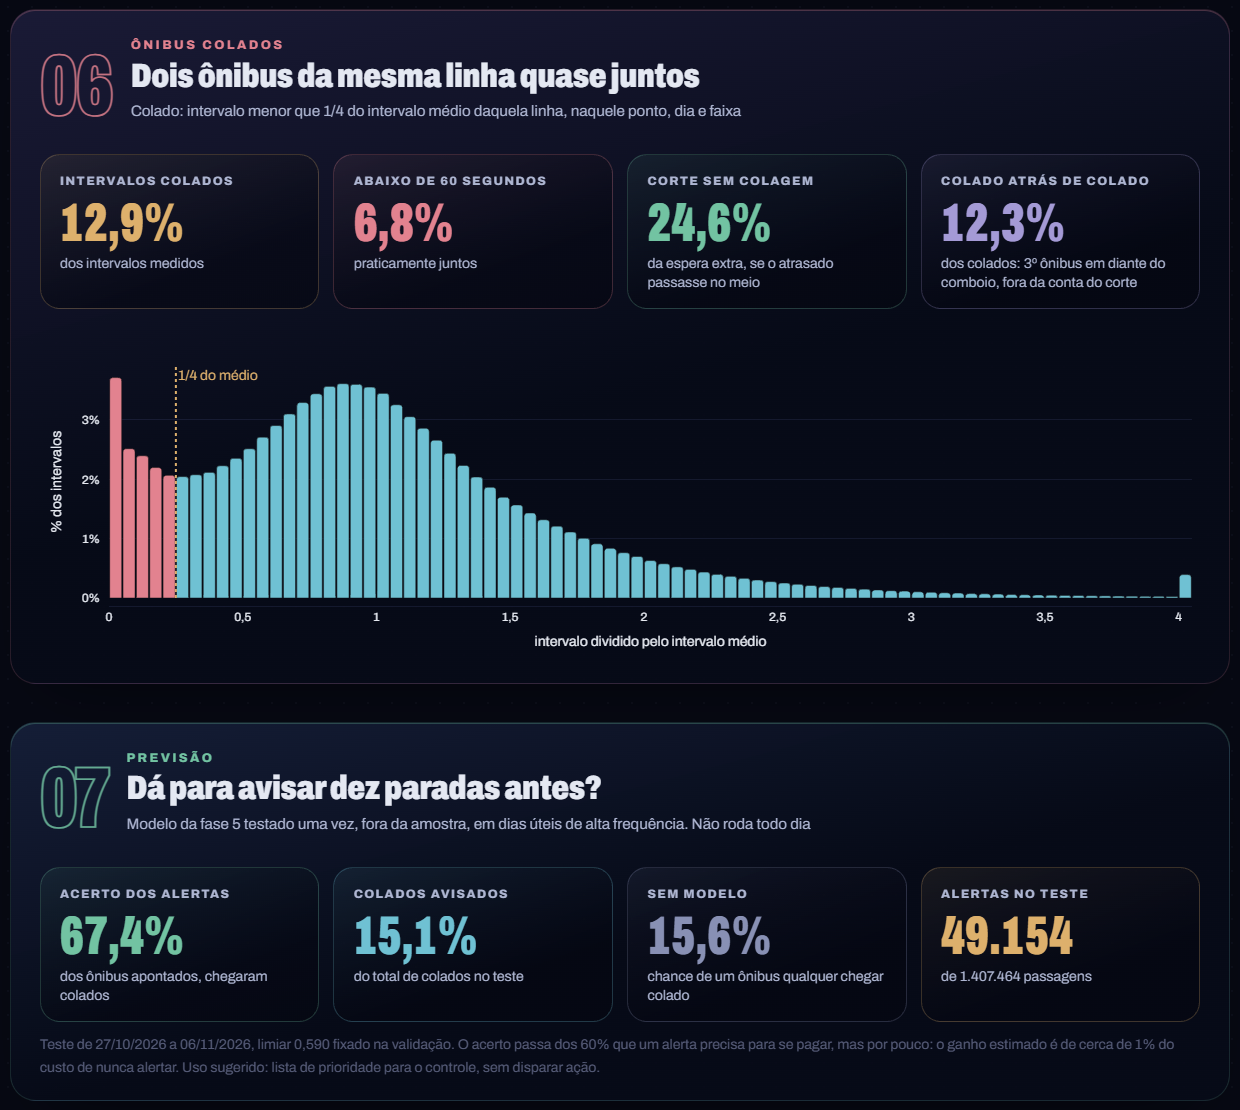
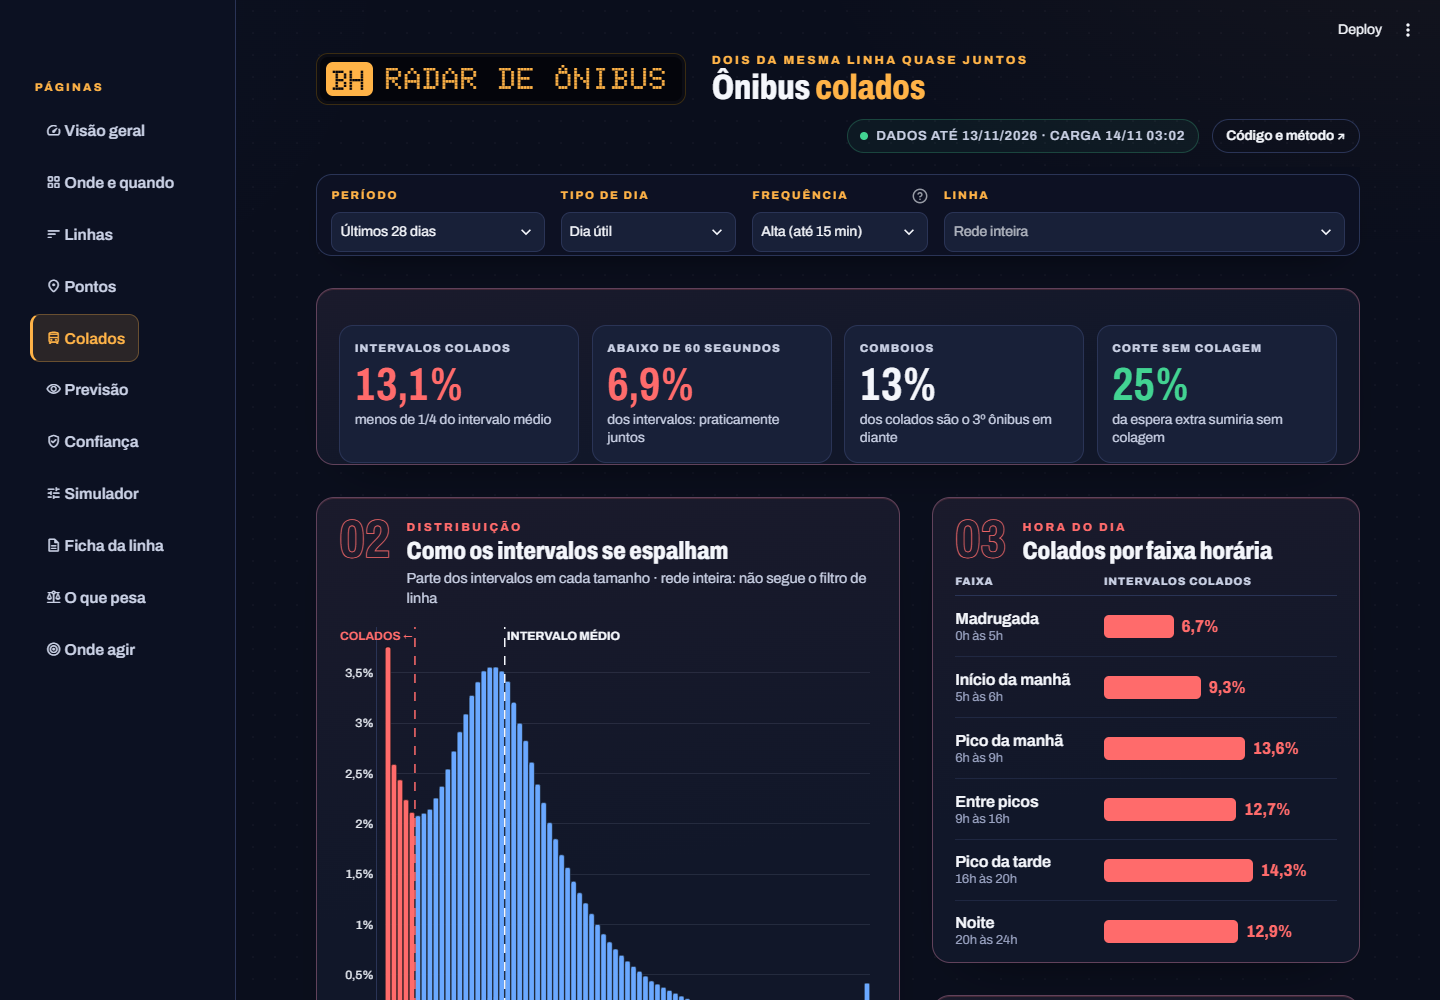
README: prints do painel novo e secao do Power BI
Troca os prints do painel antigo pelos das 11 paginas, adiciona a secao
Power BI (PBIP gerado por script, carrossel proprio, endereco do banco fora
do Git) com 4 prints, e atualiza a Estrutura (painel/, powerbi/, 137 testes).

diff --git a/README.md b/README.md
@@ -13,7 +13,9 @@ A pergunta que o projeto vai responder:
 **Painel público: [radar-onibus-bh.streamlit.app](https://radar-onibus-bh.streamlit.app/)**,
 atualizado todo dia com o dia de BH que fechou.
 
-![Topo do painel: em dia útil, a irregularidade soma 2,9 minutos à espera no ponto](docs/img/painel_topo.png)
+![Visão geral do painel: a espera no ponto, quanto dela é irregularidade e a espera extra dia a dia](docs/img/painel_visao.png)
+
+O mesmo conteúdo existe como relatório Power BI, gerado por script ([seção Power BI](#power-bi)).
 
 ## Status
 
@@ -584,7 +586,12 @@ docker compose exec airflow-scheduler airflow dags trigger radar_reprocessar   -
 ## Painel
 
 O painel lê um Postgres gratuito no [Neon](https://neon.tech) e roda no
-Streamlit Community Cloud, que publica a branch `painel`.
+Streamlit Community Cloud, que publica a branch `painel`. São 11 páginas num
+menu lateral, as mesmas do relatório Power BI e na mesma ordem: Visão geral,
+Onde e quando, Linhas, Pontos, Colados, Previsão, Confiança, Simulador, Ficha
+da linha, O que pesa e Onde agir. Os filtros de período, tipo de dia e
+frequência valem para todas e ficam na URL, então um recorte pode ser
+compartilhado por link.
 
 **Por que não ler a Gold direto.** As marts têm cerca de 2 GB, ficam em Delta
 na VM de processamento e o Neon grátis aceita 0,5 GB. A tarefa
@@ -612,16 +619,56 @@ compara com os CSVs de `analise/saida`: 23.950 números, nenhuma divergência.
 Secrets do Streamlit. Os filtros entram na consulta como parâmetro, nunca
 colados no SQL.
 
-![Espera por faixa horária e dia a dia, com os eventos marcados](docs/img/painel_tempo.png)
+O gráfico "Dia a dia" clareia e numera as barras dos dias com evento na cidade
+(eleições, temporal de 25/10, recesso escolar). Com as linhas suplementares
+incluídas, a dica do dia avisa quando o GPS delas falhou. O motivo de cada dia,
+com fonte, está na [seção 9 da análise](docs/analise.md).
 
-O gráfico "Dia a dia" marca com um losango os dias com evento na cidade
-(eleições, temporal de 25/10, recesso escolar) e com um círculo vazado os dias
-em que o GPS das linhas suplementares falhou. O motivo de cada um, com fonte,
-está na [seção 9 da análise](docs/analise.md).
+![O que pesa: a espera extra segue os colados, ponto cheio não espera mais, dia útil contra fim de semana](docs/img/painel_porque.png)
 
-![Linhas que mais somam espera extra](docs/img/painel_linhas.png)
+![Pontos: mapa da espera extra por ponto nos últimos 28 dias e os piores pontos](docs/img/painel_pontos.png)
 
-![Ônibus colados e o teste do modelo de previsão](docs/img/painel_colados.png)
+![Ônibus colados: distribuição dos intervalos, colados por faixa horária e as linhas onde mais se cola](docs/img/painel_colados.png)
+
+![Previsão: o teste único do modelo da Fase 5, alertas e acertos por dia e por linha](docs/img/painel_previsao.png)
+
+![Simulador: a espera extra hoje e com os ônibus colados espaçados, por faixa e por linha](docs/img/painel_simulador.png)
+
+## Power BI
+
+A pasta [`powerbi/`](powerbi/) tem o mesmo painel como relatório Power BI, no
+formato PBIP (o modelo em TMDL e as páginas em PBIR, arquivos de texto que o
+Git consegue comparar). Nada nele é feito à mão no Desktop:
+[`powerbi/gerar_pbip.py`](powerbi/gerar_pbip.py) escreve o projeto inteiro a
+partir de três arquivos.
+
+- [`modelo.py`](powerbi/modelo.py): tabelas importadas do mesmo esquema
+  `radar` do Neon e as medidas em DAX. As medidas repetem as fórmulas de
+  [`painel/consultas.py`](painel/consultas.py), então o relatório e o painel
+  web mostram o mesmo número para o mesmo filtro. Nenhum número é digitado.
+- [`relatorio.py`](powerbi/relatorio.py): as 11 páginas e a posição de cada
+  quadro. Cada quadro é um SVG montado por uma medida DAX
+  ([`paineis.py`](powerbi/paineis.py)) e exibido pelo visual HTML Content.
+- [`arte.py`](powerbi/arte.py): o fundo fixo de cada página (menu, letreiro,
+  títulos e molduras), desenhado em HTML e fotografado pelo Edge.
+
+A Ficha da linha usa um visual próprio,
+[`powerbi/carrossel/`](powerbi/carrossel/): um carrossel de cartões, um por
+linha, que filtra a página pela linha do centro.
+
+**O endereço do banco não vai para o Git.** O gerador lê o `PAINEL_URL` do
+`.env` e põe o servidor num parâmetro do modelo. Um filtro do Git
+([`powerbi/tools/git_censura.py`](powerbi/tools/git_censura.py)) troca o valor
+real por um marcador na hora do commit e o devolve na pasta local. A senha
+nunca passa pelo script: o Desktop pede na primeira atualização.
+
+![Power BI, Visão geral](docs/img/pbi_visao.png)
+
+![Power BI, Onde e quando: mapas de calor por linha, faixa horária e dia](docs/img/pbi_onde.png)
+
+![Power BI, Pontos: o mapa da espera extra por ponto](docs/img/pbi_pontos.png)
+
+![Power BI, Simulador](docs/img/pbi_simulador.png)
 
 ## O que os dados sugerem
 
@@ -631,7 +678,7 @@ que a sustenta. O recorte é o da análise: dia útil, linhas de alta frequênci
 de espera extra por passageiro, sobre 5,94 de espera com ônibus regulares. As
 contas estão em [`docs/analise.md`](docs/analise.md) e [`docs/ml.md`](docs/ml.md),
 e as que não estão lá saem direto dos CSVs de `analise/saida/` (indicado em
-cada item). No Power BI (pasta `powerbi/`), a página "Onde agir" mostra os
+cada item). No painel e no Power BI, a página "Onde agir" mostra os
 itens 2 a 7, e a página "O que pesa" mostra os itens 1, 8 e 9 com o recorte
 dos filtros.
 
@@ -984,14 +1031,26 @@ servico/
   metricas.py        somas reagregáveis e métricas da espera, usadas pela análise e pelo banco
   exportar.py        carga diária da Gold para o Neon, numa transação
 painel/
-  app.py             painel Streamlit público
+  app.py             painel Streamlit público: menu, filtros e a página escolhida
+  paginas.py         as 11 páginas, com os mesmos quadros do Power BI
+  visual.py          aparência: cores, letreiro, painéis numerados e gráficos
+  banco.py           conexão só leitura e cache das consultas
   consultas.py       as métricas em SQL, com filtros por parâmetro
+  eventos.py         dias com evento na cidade e falhas de GPS, usados pelos dois painéis
   conciliar.py       segunda conta: banco contra os CSVs da análise
   formato.py         números no formato brasileiro
+powerbi/
+  gerar_pbip.py      escreve o projeto Power BI (Radar.pbip) a partir dos três abaixo
+  modelo.py          tabelas, relações e medidas DAX (TMDL)
+  relatorio.py       páginas e layout dos quadros (PBIR)
+  paineis.py         quadros em SVG montados por medida DAX
+  arte.py            fundo fixo de cada página
+  carrossel/         visual próprio da Ficha da linha (TypeScript)
+  tools/             filtro do Git que esconde o endereço do banco e utilitários do Desktop
 Dockerfile.spark     imagem do Spark com Delta
 Dockerfile.gold      imagem do dbt-spark, sobre a do Spark
 Dockerfile.ml        imagem da Fase 5: a do Spark mais pandas e scikit-learn
-tests/               134 testes: coletor, vigia, formato, idempotência, limpeza, backup, Silver,
+tests/               137 testes: coletor, vigia, formato, idempotência, limpeza, backup, Silver,
                      Gold, limpeza do Airflow, o que o modelo da Fase 5 pode ver, banco e painel
 ```
 
